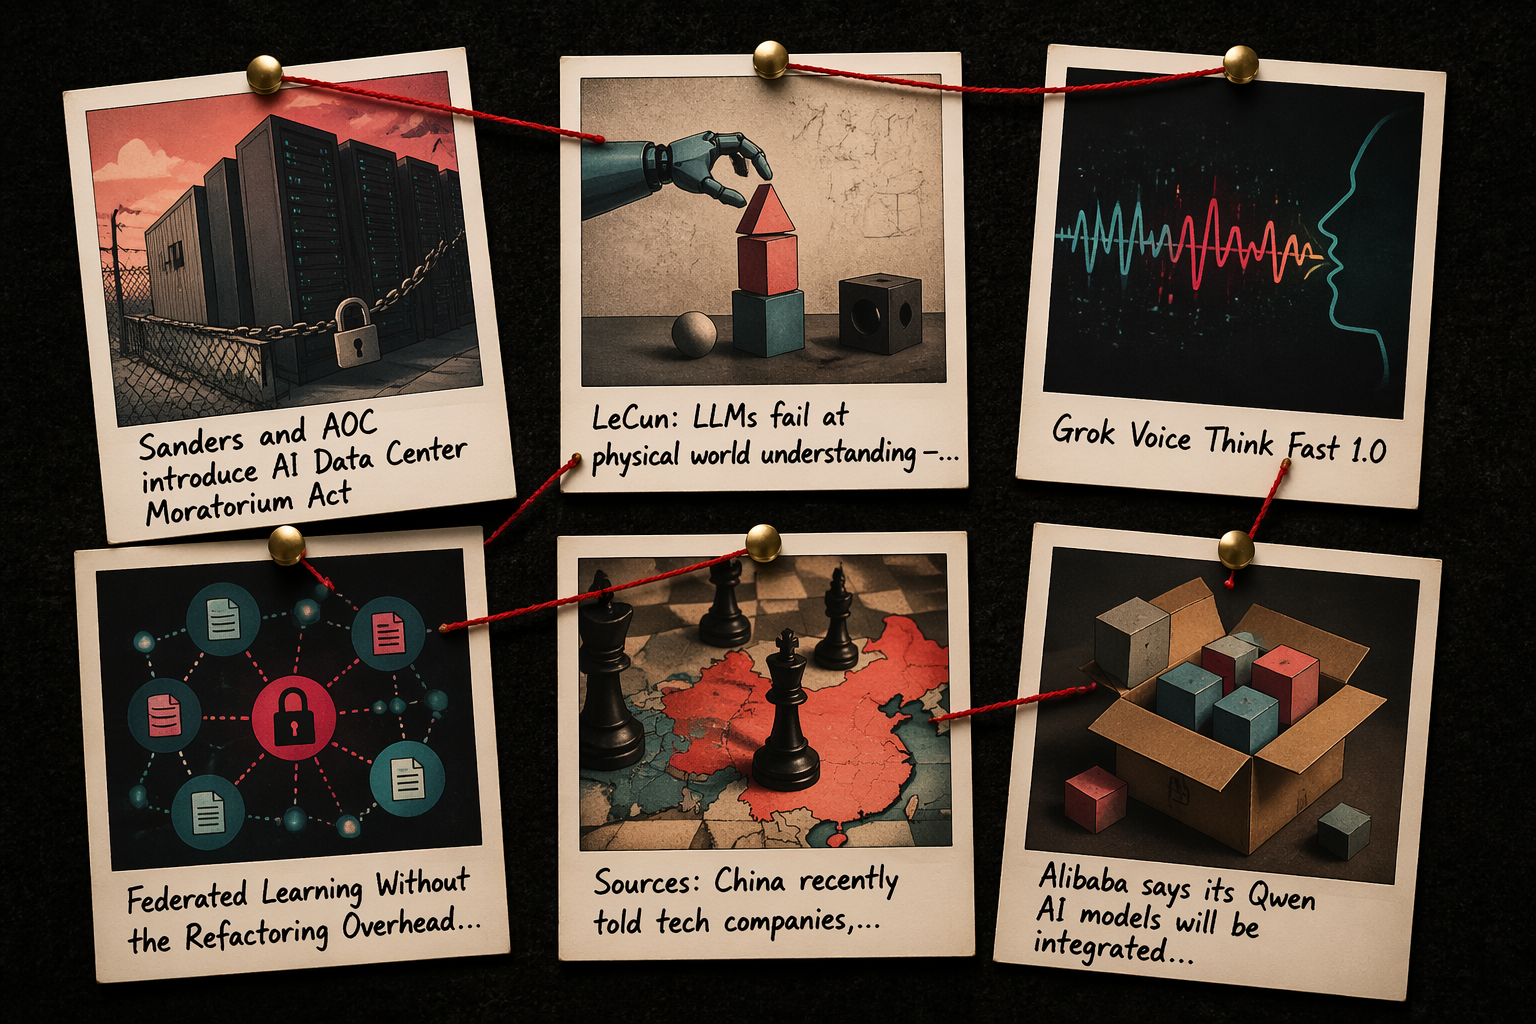
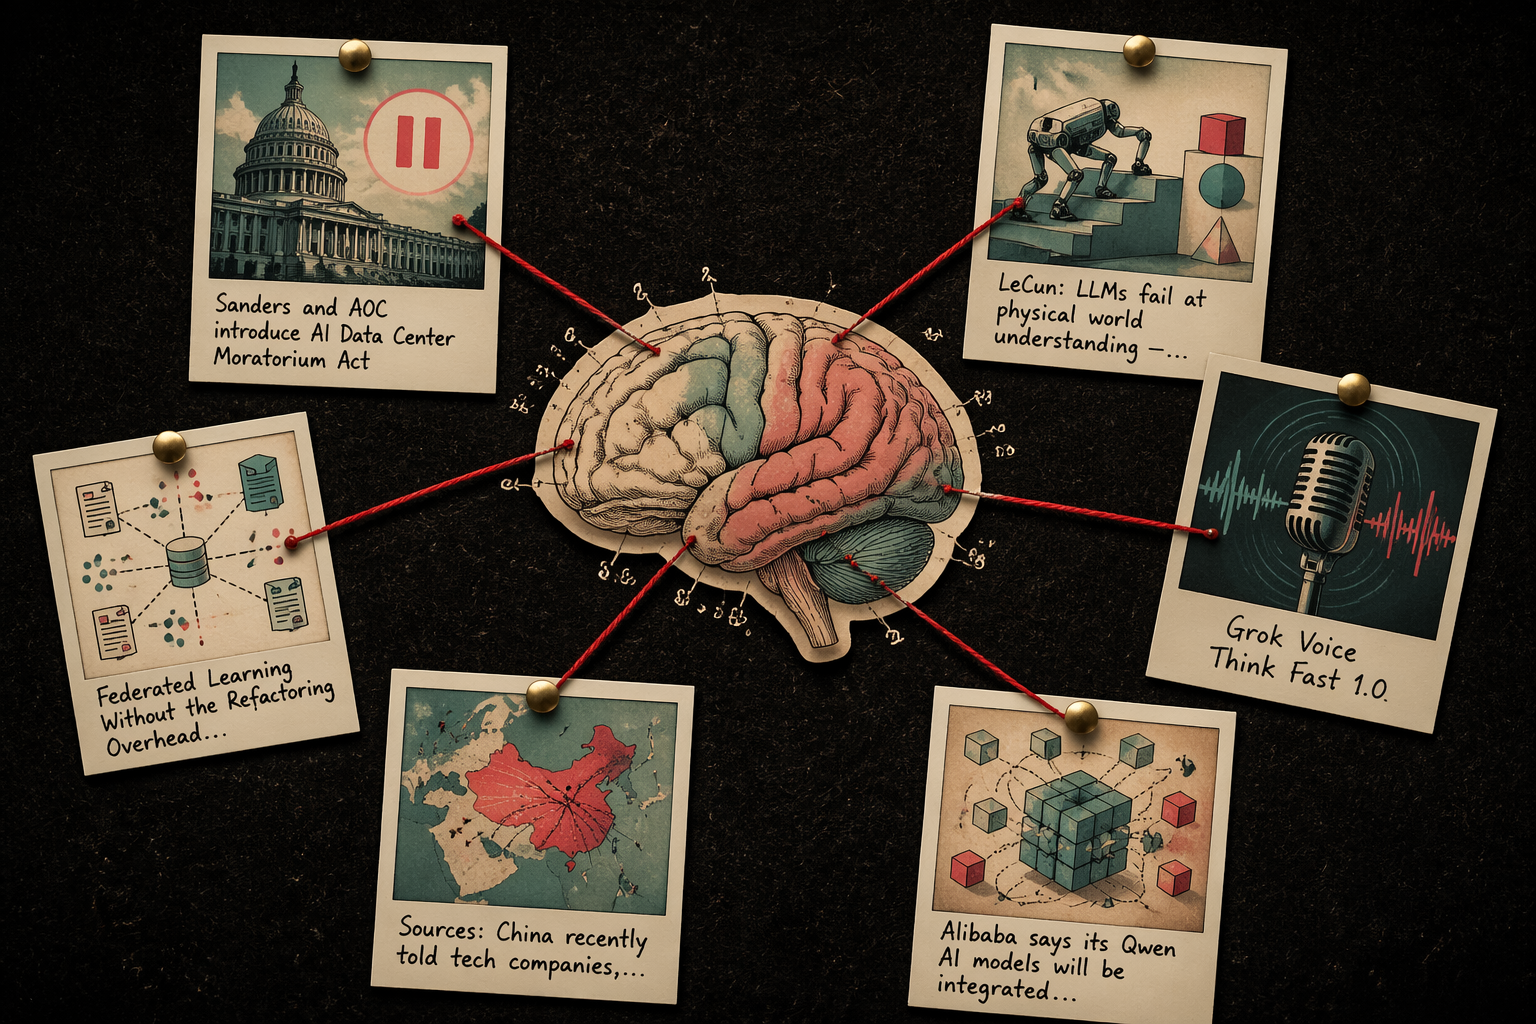
ainews: brain-center cover + cover-mobile fallback

diff --git a/prefetch.py b/prefetch.py
@@ -83,21 +83,27 @@ COVER_FALLBACKS = [
 ]
 COVER_PROMPT_TEMPLATE = (
     "Editorial mood-board photograph, detective-investigation aesthetic. "
-    "Dark corkboard or black velvet background with subtle texture. "
-    "Six Polaroid-style instant photos arranged in a rough 3×2 grid, "
-    "slightly rotated at varied angles (-10° to +10°), corners overlapping, "
-    "pinned with gold/brass pushpins. Red investigation string loosely connects "
-    "some photos. Each Polaroid has a handwritten-in-black-marker label on its "
-    "white bottom strip.\n\n"
-    "Polaroid labels (top-left → bottom-right, render each EXACTLY as written):\n"
+    "Dark corkboard or black velvet background with subtle texture.\n\n"
+    "CENTER of the composition: a stylised anatomical brain illustration, "
+    "rendered as a diagram or pinned specimen, with red-string 'neurons' "
+    "radiating outward from it like investigation threads. The brain is the "
+    "focal anchor — centered both horizontally and vertically so a square "
+    "mobile crop frames it cleanly.\n\n"
+    "Around the brain (scattered on the corkboard, NOT overlapping the brain "
+    "itself): six Polaroid-style instant photos, slightly rotated at varied "
+    "angles (-10° to +10°), corners sometimes overlapping each other or "
+    "peeking under string, pinned with gold/brass pushpins. The red string "
+    "connects the brain to each Polaroid like neural pathways.\n\n"
+    "Each Polaroid has a handwritten-in-black-marker label on its white bottom "
+    "strip. Labels (EXACTLY as written):\n"
     "{labels_block}\n\n"
-    "For each Polaroid, render a minimal editorial illustration that visually "
-    "captures the theme of its label — abstract motifs, objects, or metaphors. "
-    "Muted palette — warm cream Polaroid frames, rose (#FF5B6E) and teal (#14B8BF) "
-    "hints naturally in the photo subjects and the string. Slight chaos and grain; "
-    "informality is the point. Shot from directly above, flat lay. 3:2 landscape.\n\n"
+    "For each Polaroid, render a minimal editorial illustration of the label's "
+    "theme — abstract motifs, objects, or metaphors. Muted palette — warm "
+    "cream Polaroid frames, rose (#FF5B6E) and teal (#14B8BF) accents in the "
+    "brain, photos, and string. Slight chaos and grain; informality is the "
+    "point. Shot from directly above, flat lay. 3:2 landscape.\n\n"
     "No real human faces or identifiable likenesses. No real brand logos or "
-    "trademarked symbols. No text outside the handwritten labels."
+    "trademarked symbols. No text outside the handwritten Polaroid labels."
 )
 
 # Max chars per Polaroid label — long headlines get truncated with ellipsis so
@@ -479,31 +485,37 @@ def slice_cover_into_tiles(
         return False, [], f"slice failed: {e}"
 
 
-def assign_slices_to_items(
+def assign_cover_to_items(
     items: list[dict],
-    slice_urls: list[str],
+    cover_url: str = "/data/cover-mobile.png",
 ) -> int:
-    """Assign a cover-slice URL to each item that has no `image_url`.
+    """Assign the daily cover banner (center-cropped on the brain) to every
+    item missing an `image_url`.
 
-    Deterministic — same item.url always maps to the same slice across runs,
-    so thumbnails are stable until the cover itself regenerates. Items that
-    already have an og:image / twitter:image / avatar keep it untouched.
+    The cover-mobile.png is a 1024×1024 center crop of the wide banner — the
+    brain motif lives at the center of the banner, so the mobile crop is
+    brain-centered and scales as a square article thumbnail. Baked Polaroid
+    labels stay visible and scale with the image. Items that already have an
+    og:image / twitter:image / avatar keep those untouched.
 
-    Returns the number of items that got a slice assigned."""
-    if not slice_urls:
-        return 0
+    Returns the number of items that got the cover assigned."""
     assigned = 0
     for item in items:
         if item.get("image_url"):
             continue
-        url = item.get("url") or item.get("id") or ""
-        if not url:
-            continue
-        idx = int(hashlib.md5(url.encode("utf-8")).hexdigest(), 16) % len(slice_urls)
-        item["image_url"] = slice_urls[idx]
-        item["image_source"] = "cover_slice"
+        item["image_url"] = cover_url
+        item["image_source"] = "cover_fallback"
         assigned += 1
     return assigned
+
+
+# Kept for API stability — earlier code called assign_slices_to_items. Now a
+# thin alias. Slicing still runs (slice_cover_into_tiles populates
+# public/data/slices/ for any frontend that wants them), but the default
+# fallback is the whole cover.
+def assign_slices_to_items(items: list[dict], slice_urls: list[str]) -> int:
+    """Deprecated — use assign_cover_to_items. Retained for backward compat."""
+    return assign_cover_to_items(items)
 
 
 def tokenize(text: str) -> set:
